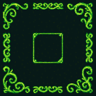
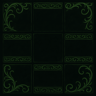
Replace sewer atlas with painterly green filigree version

Changed region(s): [[0.0, 0.0, 1.0, 1.0], [0.0, 0.6875, 0.6562, 1.0], [0.3125, 0.3125, 0.6875, 0.6875]]

diff --git a/FrontEnds/dungeon-fisher/src/version.js b/FrontEnds/dungeon-fisher/src/version.js
@@ -2,7 +2,7 @@
 //   MAJOR — large game changes, system overhauls, breaking save changes
 //   MINOR — new features, content additions (fish, scenes, mechanics)
 //   PATCH — bug fixes, UI tweaks, balance tuning
-export const VERSION = '1.13.25';
+export const VERSION = '1.13.26';
 
 // Save format version — bump when save data structure changes.
 // This is separate from the game version because UI/balance changes
